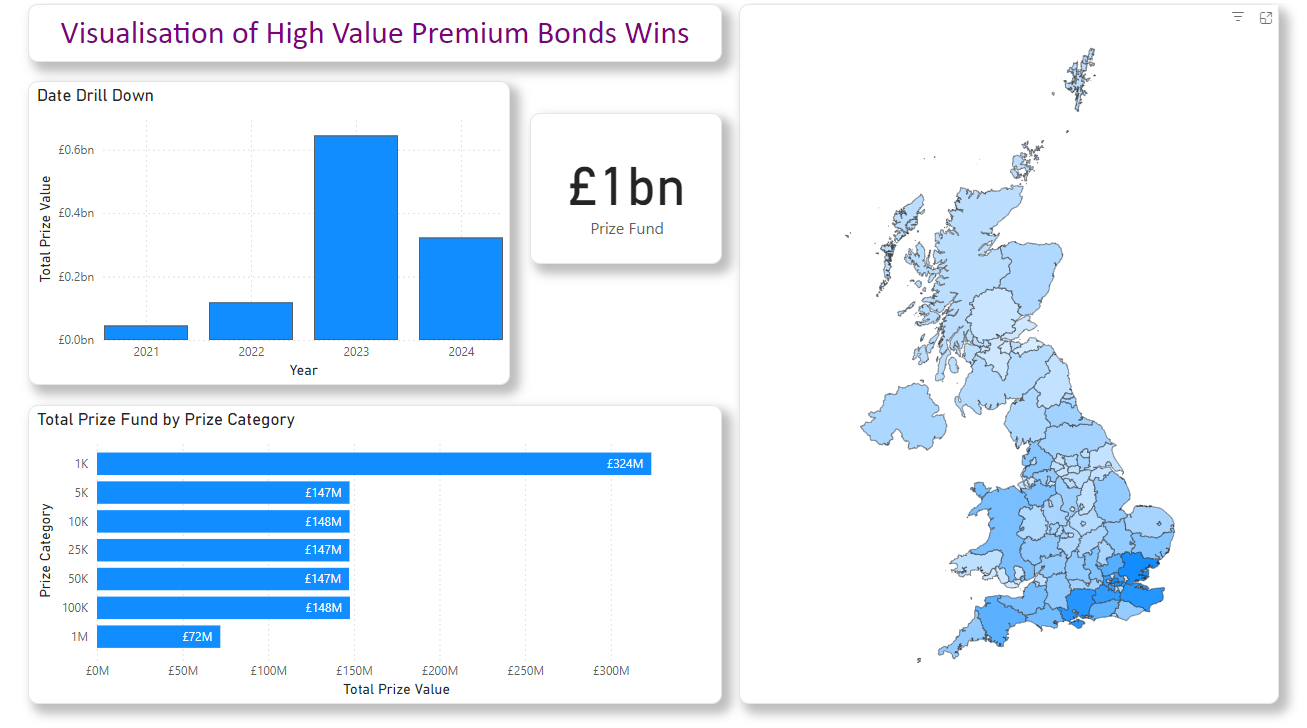
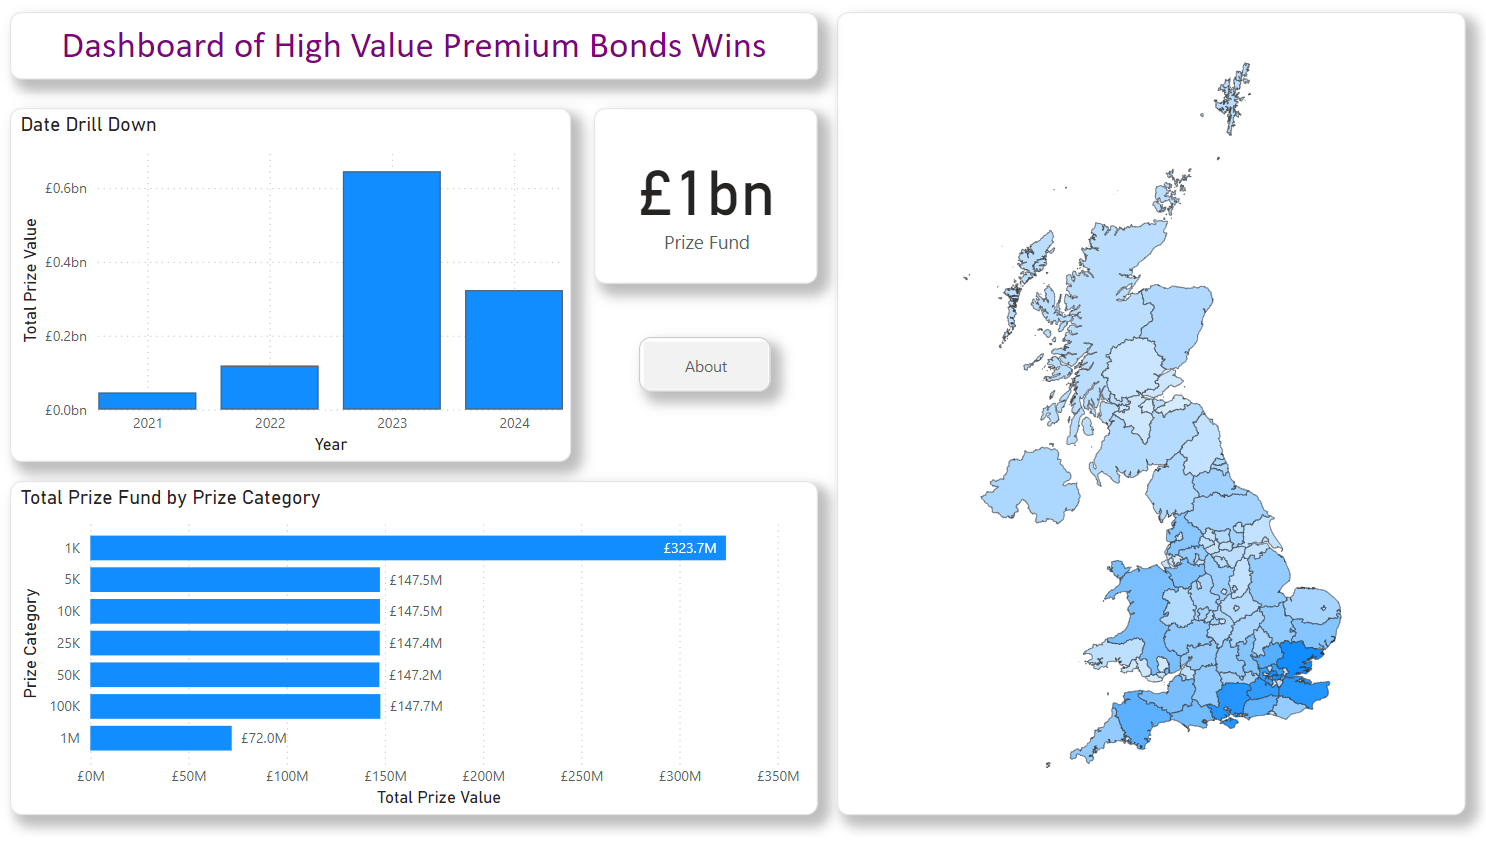
Dashboard

diff --git a/index.html b/index.html
@@ -62,8 +62,8 @@
     <div class="container animated fadeIn">
         <hr>
          <div class="post">
-            <h3>A Visualisation of High Value Premium Bond Wins</h3>
-            <h4 class="lighten-3 grey-text">A Microsoft Power BI Report</h4>
+            <h3>A Dashboard of High Value Premium Bond Wins</h3>
+            <h4 class="lighten-3 grey-text">Microsoft Power BI Report</h4>
             <p class="text-muted">May 6, 2024</p>
 
             <a href="https://app.powerbi.com/view?r=eyJrIjoiN2NjZjJjN2UtNTE2MS00MmI3LTlmMGQtM2ZmNWU5NWFiZTc1IiwidCI6ImQ4MmUzMjY1LWU4ZWQtNDg1MC05YzZmLTAyZGRjZDlkYTM2OSJ9" target="_blank"><img src="images\ernie_vis_powerbi.png"
